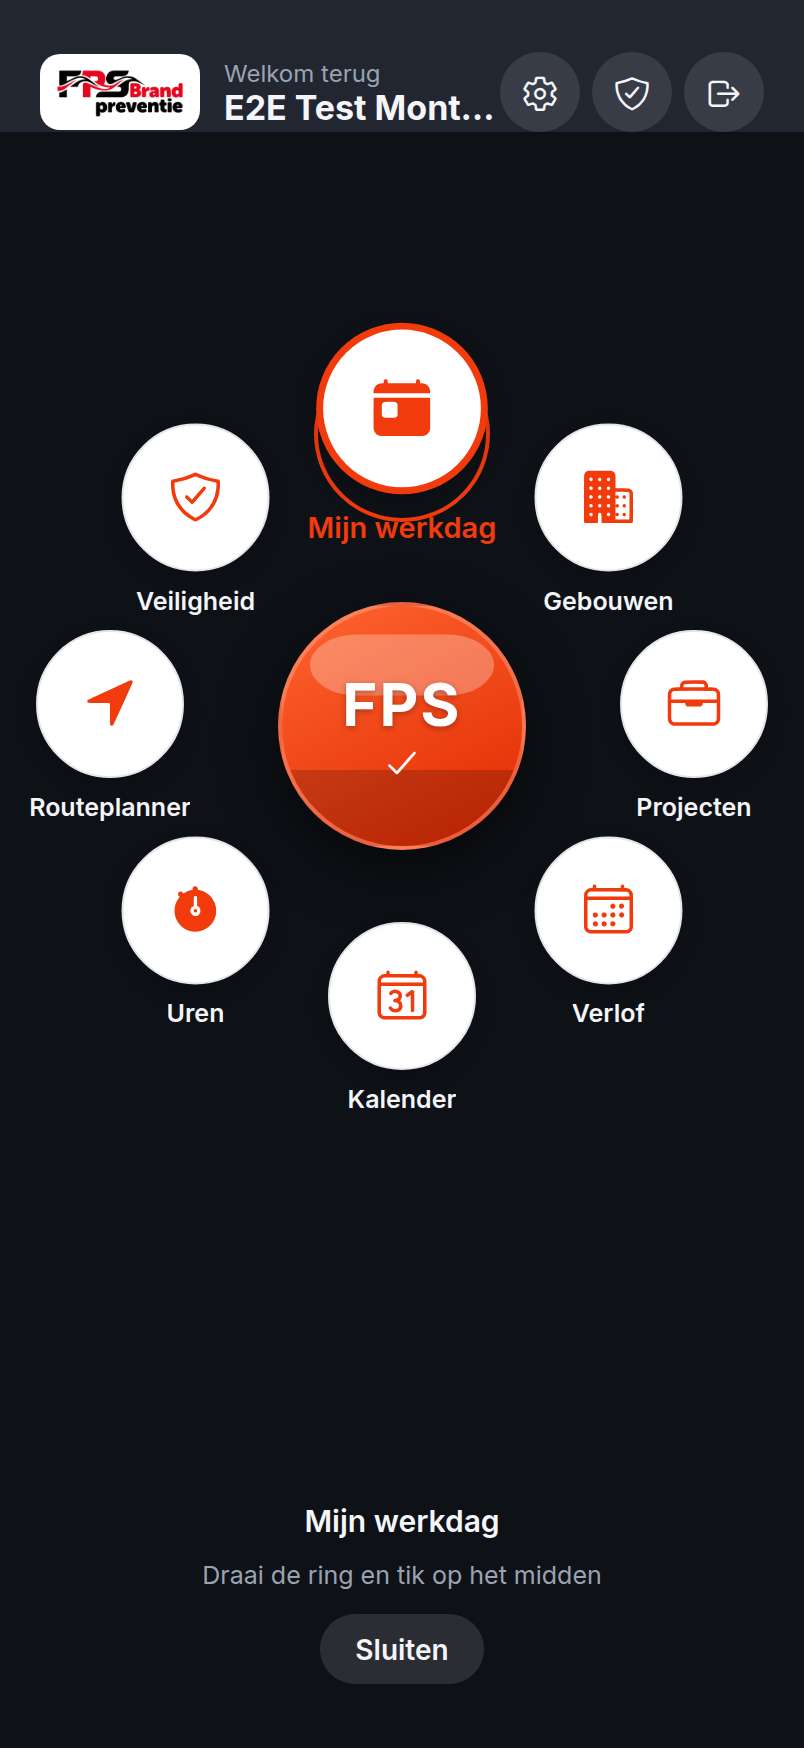
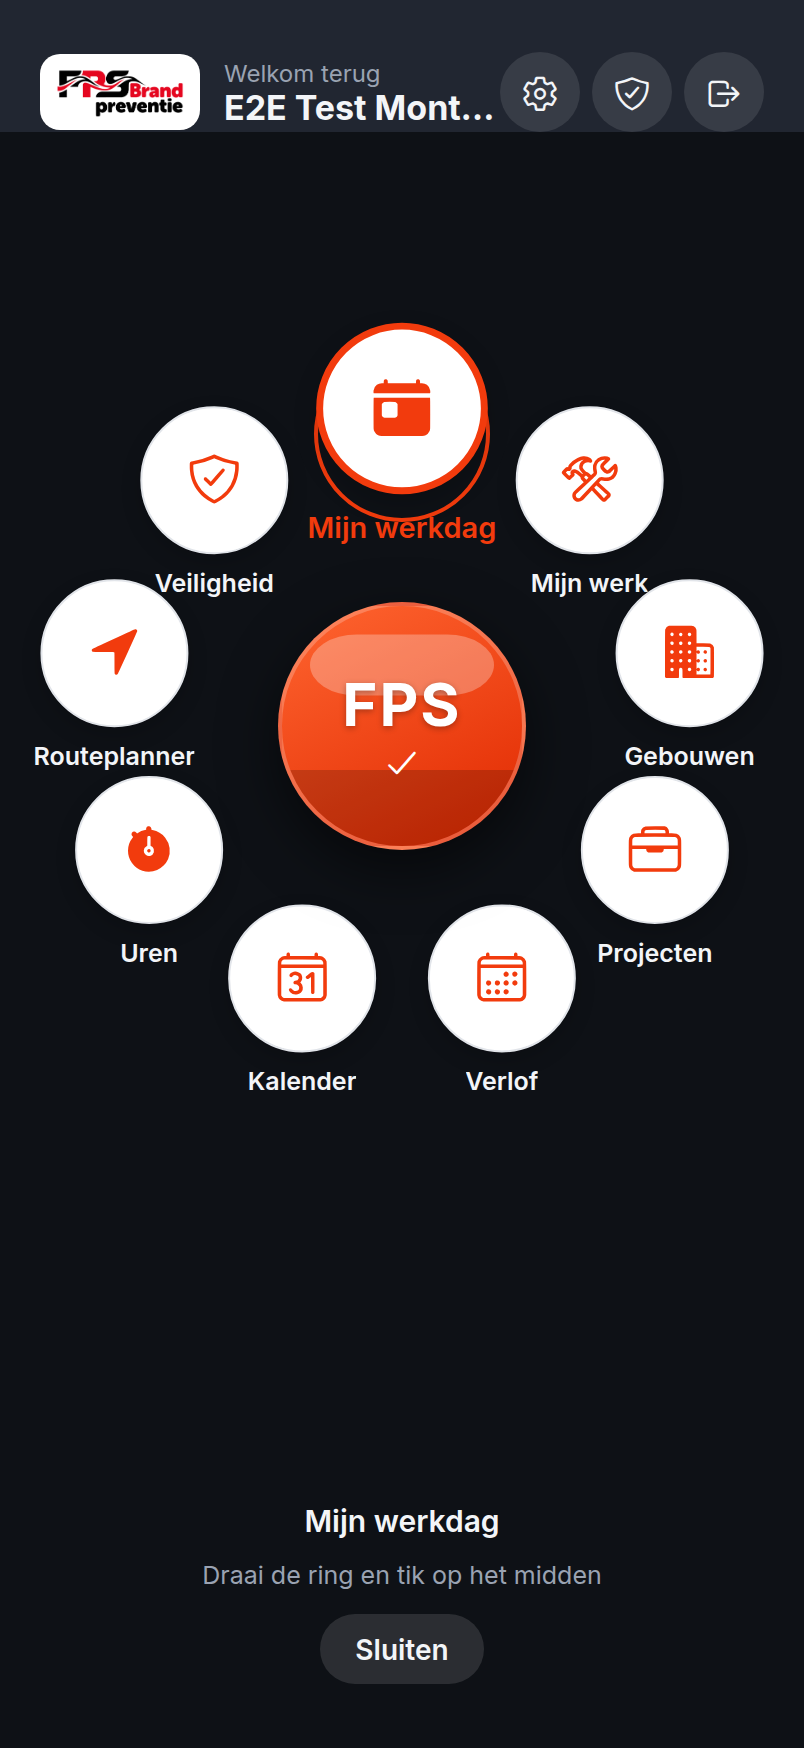
VORM_01: bouwsteenregels Onderregel + Statusmerk flexShrink:0 + netteWaarde(); radiaalmenu-item Mijn werk (voorzieningen:1)

Changed region(s): [[0.0311, 0.2162, 0.9639, 0.6487]]

diff --git a/artifacts/monteur-app/components/ui.tsx b/artifacts/monteur-app/components/ui.tsx
@@ -400,6 +400,9 @@ export function Statusmerk({
     <View
       style={{
         alignSelf: "flex-start",
+        // Regel: de chip wordt nooit platgedrukt door lange buurteksten —
+        // de buurtekst kapt af (of loopt door op een tweede regel), niet de status.
+        flexShrink: 0,
         flexDirection: "row",
         alignItems: "center",
         gap: ruimte.xs + 2,
@@ -412,6 +415,30 @@ export function Statusmerk({
       <View style={{ width: ruimte.s, height: ruimte.s, borderRadius: ruimte.xs, backgroundColor: kleur }} />
       <Text style={tekstStijl("bijschrift", c.foreground)}>{label}</Text>
     </View>
+  );
+}
+
+/**
+ * netteWaarde — toont een ruwe (database)waarde netjes wanneer er geen
+ * labelvertaling bestaat: underscores/streepjes worden spaties, eerste letter
+ * een hoofdletter. Regel: rauwe enumwaarden komen nooit kaal in beeld.
+ */
+export function netteWaarde(ruw: string): string {
+  const tekst = ruw.replace(/[_-]+/g, " ").trim();
+  return tekst.charAt(0).toUpperCase() + tekst.slice(1);
+}
+
+/**
+ * Onderregel — de secundaire informatieregel onder een titel (type · ruimte ·
+ * verdieping). Regel: loopt door op een tweede regel in plaats van essentiële
+ * informatie midden in een woord af te kappen.
+ */
+export function Onderregel({ children, regels = 2 }: { children: React.ReactNode; regels?: number }) {
+  const c = useColors();
+  return (
+    <Text style={tekstStijl("klein", c.mutedForeground)} numberOfLines={regels}>
+      {children}
+    </Text>
   );
 }
 

diff --git a/artifacts/monteur-app/app/mijn-werk.tsx b/artifacts/monteur-app/app/mijn-werk.tsx
@@ -14,8 +14,10 @@ import {
   Ladenstaat,
   LegeStaat,
   LijstFout,
+  Onderregel,
   Statusmerk,
   bovenInset,
+  netteWaarde,
   tekstStijl,
 } from "@/components/ui";
 import { SyncStatusBadge } from "@/components/SyncStatusBadge";
@@ -322,14 +324,13 @@ function SpotRij({
                 soort={STATUS_SOORT[spot.status] ?? "neutraal"}
               />
             </View>
-            <Text
-              style={[tekstStijl("klein", c.mutedForeground), { marginTop: 2 }]}
-              numberOfLines={1}
-            >
-              {TYPEN[spot.type] ?? spot.type}
-              {spot.ruimte ? ` · ${spot.ruimte}` : ""}
-              {spot.verdieping_naam ? ` · ${spot.verdieping_naam}` : ""}
-            </Text>
+            <View style={{ marginTop: 2 }}>
+              <Onderregel>
+                {TYPEN[spot.type] ?? netteWaarde(spot.type)}
+                {spot.ruimte ? ` · ${spot.ruimte}` : ""}
+                {spot.verdieping_naam ? ` · ${spot.verdieping_naam}` : ""}
+              </Onderregel>
+            </View>
           </View>
           <Ionicons
             name="chevron-forward"

diff --git a/artifacts/monteur-app/app/menu.tsx b/artifacts/monteur-app/app/menu.tsx
@@ -145,6 +145,7 @@ export default function MenuScherm() {
   type MenuActie = RadiaalActie & { vereist?: Vereiste };
   const acties: RadiaalActie[] = ([
     { sleutel: "werkdag", label: "Mijn werkdag", icoon: "today", onPress: () => router.push("/werkdag") },
+    { sleutel: "mijn_werk", label: "Mijn werk", icoon: "construct-outline", vereist: { module: "voorzieningen", niveau: 1 }, onPress: () => router.push("/mijn-werk") },
     { sleutel: "gebouwen", label: "Gebouwen", icoon: "business", vereist: { module: "gebouwen", niveau: 1 }, onPress: () => router.push("/gebouwen") },
     { sleutel: "projecten", label: "Projecten", icoon: "briefcase-outline", vereist: { module: "projecten", niveau: 1 }, onPress: () => router.push("/projecten") },
     { sleutel: "verlof", label: "Verlof", icoon: "calendar-outline", onPress: () => router.push("/hrm/verlof") },

diff --git a/docs/antwoorden/VORM_01.md b/docs/antwoorden/VORM_01.md
@@ -11,6 +11,12 @@
    - **Optie B — ingang vanaf Mijn werkdag.** De regel "N locaties vandaag" (die zijn teller nu al uit `/mijn-werk`-data haalt) wordt aanklikbaar en opent Mijn werk. Voordeel: nul extra menudrukte, de ingang staat precies waar de monteur al kijkt, en de bestaande teller krijgt betekenis. Nadeel: één tik dieper dan het menu.
    - **Afweging/advies: optie B** — laagste menudruk, logische plek (werkdag verwijst er al impliciet naar), geen wijziging aan het radiaalmenu.
 
+## 0b. Tweede beoordelingsronde (10-08, akkoord F6 met twee referentiescherm-punten)
+
+1. **Afkappen midden in een woord opgelost als bouwsteenregel:** nieuwe bouwsteen `Onderregel` (secundaire informatieregel, loopt door op een tweede regel) + regel in `Statusmerk` (`flexShrink: 0` — de chip wordt nooit platgedrukt). Zichtbaar in de nieuwe ná-afdruk: "Begane grond" en "1e verdieping" staan er volledig.
+2. **Rauwe databasewaarden:** nieuwe helper `netteWaarde()` in de bouwstenen (underscores → spaties, hoofdletter voorop) als vangnet wanneer een labelvertaling ontbreekt; `mijn-werk` gebruikt hem. **Gemelde opruimtaak (buiten VORM_01):** `voorzieningen.type` is een vrije tekstkolom met twee spellingen door elkaar (branddeur vs brandwerende_deur, doorvoering vs doorvoer, coating vs brandwerende_coating) — vergt één vaste typelijst + migratie van de afwijkende waarden.
+3. **Ingang Mijn werk = optie A** (besluit René): 18e radiaalmenu-item "Mijn werk" met `vereist: { module: "voorzieningen", niveau: 1 }`. **Toetsing backend:** `GET /mijn-werk` heeft alleen `requireAuth`, geen module-check. Mijn oordeel: dat volstaat hier — het eindpunt filtert hard op `monteur_id = ingelogde gebruiker` en geeft dus per definitie alleen eigen toegewezen werk terug; iemand zonder voorzieningen-recht kan er via deep-link hooguit een lege lijst zien (spots worden alleen aan monteurs toegewezen). Wil men de gordel-én-bretels-lijn van de module-matrix, dan is `requireBevoegdheid("voorzieningen", 1)` een kleine toevoeging — gemeld, niet eigenmachtig gedaan omdat het menu-item de afgesproken plek van de bevoegdheid is.
+
 ## Fase-overzicht
 
 | Fase | Resultaat |

diff --git a/docs/changelog.md b/docs/changelog.md
@@ -1,3 +1,9 @@
+## 2026-08-10 — VORM_01 referentiescherm-punten + ingang Mijn werk (akkoord F6 ontvangen)
+
+- **Uitvoering:** volledig (2 schermregels + menu-ingang) | **Kwaliteit:** hoog | **Risico:** laag
+
+Na het F6-akkoord van René zijn de twee referentiescherm-punten als **bouwsteenregels** opgelost (het patroon wordt 58× herhaald): nieuwe bouwsteen `Onderregel` (secundaire regel loopt door op een tweede regel — geen "Begane gr…" meer) + `Statusmerk` krijgt `flexShrink: 0` (chip wordt nooit platgedrukt), en nieuwe helper `netteWaarde()` toont onbekende enumwaarden netjes (underscores eruit, hoofdletter voorop) zodat "brandwerende_deur" nooit meer kaal in beeld komt. **Ingang Mijn werk:** 18e radiaalmenu-item met `vereist: {voorzieningen, 1}` (besluit René, optie A); afweging over het requireAuth-only eindpunt in `docs/antwoorden/VORM_01.md` §0b.3. **Gemelde opruimtaak (niet in VORM_01):** vaste typelijst voor `voorzieningen.type` + migratie van dubbele spellingen (branddeur/brandwerende_deur, doorvoering/doorvoer, coating/brandwerende_coating).
+
 ## 2026-08-10 — VORM_01 herbewijs-ronde: gevuld bewijsscherm, accent terug in lege toestand
 
 - **Uitvoering:** volledig (3 punten René) | **Kwaliteit:** hoog | **Risico:** laag (alleen testdata-script, 1 kleurherstel, screenshots)
